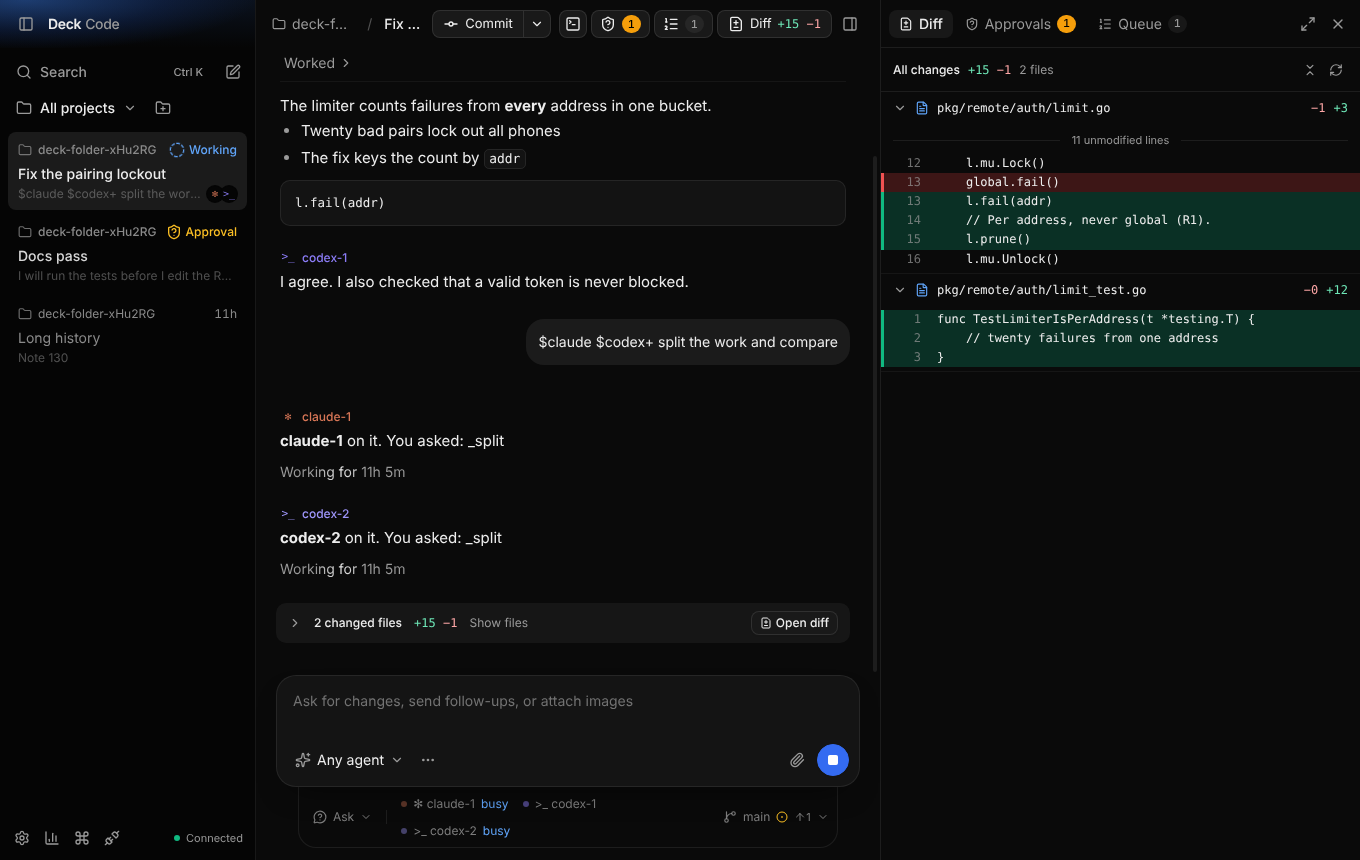
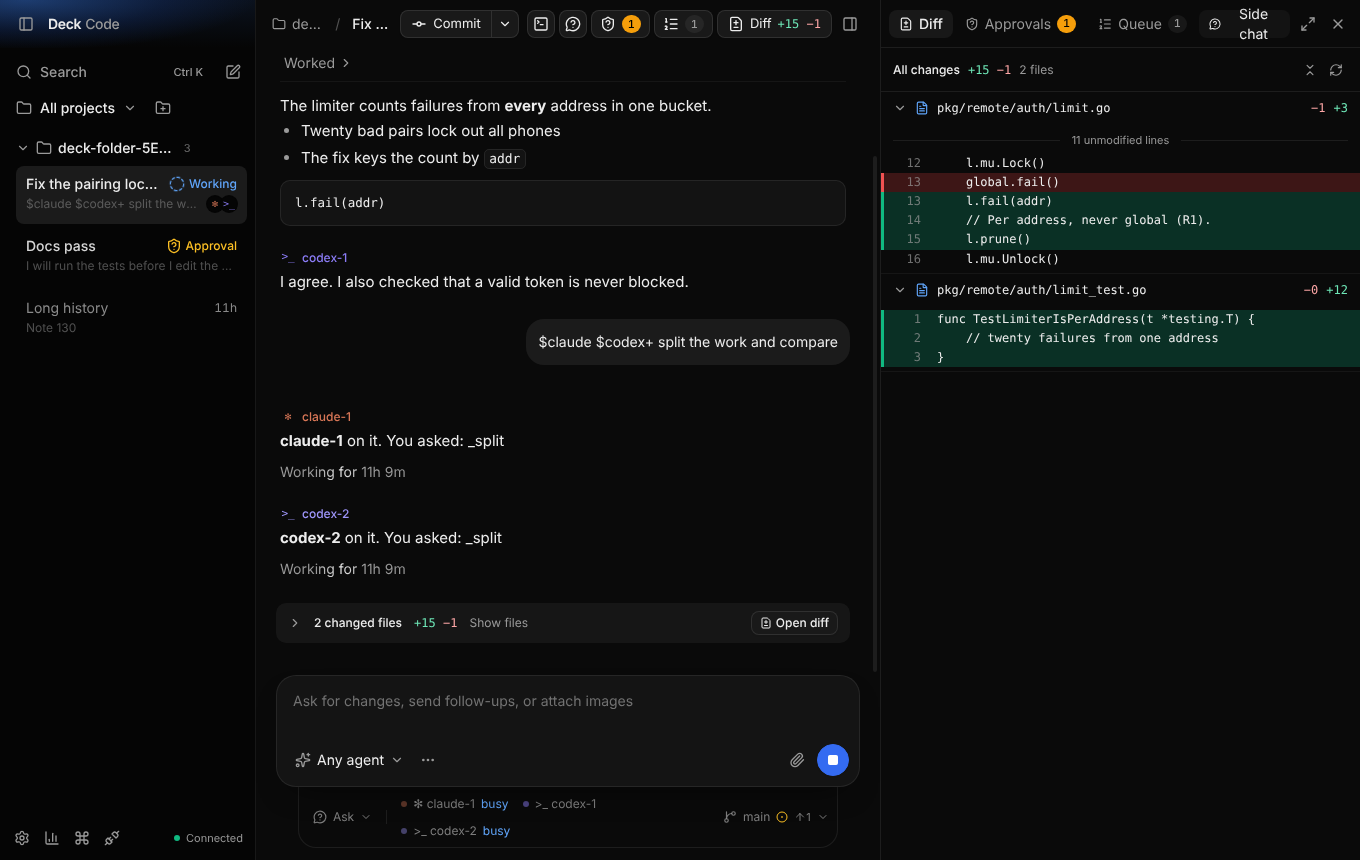
Group threads under their project folders, as T3 Code does
The sidebar now lists each open project as a folder with its threads
under it (a count, a fold, and on hover a new thread or close), the
current project first, and the recent folders that are not open below to
reopen in a click. Under a folder a card leaves the project name out.
Settings, Appearance, Sidebar switches back to one list across projects,
newest first.

Claude-Session: https://claude.ai/code/session_01AUW6MT1iAEJJY1XoSuGNJj

Changed region(s): [[0.0, 0.1512, 0.1853, 0.4233], [0.2779, 0.0, 0.4324, 0.0302], [0.8956, 0.0, 0.9265, 0.0605]]

diff --git a/desktop-shell/src/renderer/ui/Sidebar.tsx b/desktop-shell/src/renderer/ui/Sidebar.tsx
@@ -90,12 +90,15 @@ function ThreadRow({
   variant,
   kinds,
   theme,
+  hideProject = false,
   onOpen,
   onRename,
   onDelete,
 }: {
   s: Session;
   project: string;
+  // Under its project's heading the card leaves the project out.
+  hideProject?: boolean;
   active: boolean;
   unread: boolean;
   now: number;
@@ -235,15 +238,22 @@ function ThreadRow({
   return (
     <li className={cn("session list-none", active && "open")} data-session={s.id}>
       <div {...common} className={surface}>
-        <div className="relative h-[4.875rem] px-2.5 py-2">
-          <div className="flex h-5 min-w-0 items-center gap-1.5">
-            <Folder className="size-3.5 shrink-0 text-muted-foreground/70" />
-            <span className={cn("min-w-0 flex-1 truncate text-secondary-label text-xs", !recede && "font-medium")}>
-              {project}
-            </span>
-            {statusSlot}
-          </div>
-          <div className="mt-1 flex min-w-0">{title}</div>
+        <div className={cn("relative px-2.5 py-2", hideProject ? "h-[3.625rem]" : "h-[4.875rem]")}>
+          {hideProject ? (
+            <div className="flex h-5 min-w-0 items-center gap-1.5">
+              {title}
+              {statusSlot}
+            </div>
+          ) : (
+            <div className="flex h-5 min-w-0 items-center gap-1.5">
+              <Folder className="size-3.5 shrink-0 text-muted-foreground/70" />
+              <span className={cn("min-w-0 flex-1 truncate text-secondary-label text-xs", !recede && "font-medium")}>
+                {project}
+              </span>
+              {statusSlot}
+            </div>
+          )}
+          {!hideProject && <div className="mt-1 flex min-w-0">{title}</div>}
           <div className="mt-0.5 flex min-w-0 items-center gap-1.5 text-secondary-label text-xs">
             <span className="min-w-0 flex-1 truncate text-muted-foreground/50">
               {s.last_text !== undefined && s.last_text !== "" ? s.last_text : `${s.mode} mode`}
@@ -414,6 +424,8 @@ export function Sidebar({
   onForeign,
   onCloseProject,
   onConnect,
+  onNewIn,
+  grouping,
   link,
   sessions,
   openId,
@@ -446,6 +458,11 @@ export function Sidebar({
   onCloseProject: (source: string) => void;
   // The screen to add a folder or pair with a Deck.
   onConnect: () => void;
+  // A new thread in a project, by its source.
+  onNewIn: (source: string) => void;
+  // Threads under their project folders (T3 Code's projects), or one list
+  // across projects, newest first.
+  grouping: "projects" | "recent";
   link: Link;
   sessions: Session[];
   openId: string | null;
@@ -470,7 +487,8 @@ export function Sidebar({
   usage: boolean;
   onUsage: () => void;
 }) {
-  const [showSettled, setShowSettled] = useState(false);
+  const [showSettled, setShowSettled] = useState<Record<string, boolean>>({});
+  const [collapsed, setCollapsed] = useState<Record<string, boolean>>({});
   const [filter, setFilter] = useState<string | null>(null);
   // Every open project's threads, newest first, as T3 Code lists them.
   type Item = { s: Session; source: string; project: string; foreign: ForeignThread | null };
@@ -480,13 +498,17 @@ export function Sidebar({
   ]
     .filter((x) => filter === null || x.source === filter)
     .sort((a, b) => toMillis(b.s.updated_at) - toMillis(a.s.updated_at));
-  const live: Item[] = [];
-  const settled: Item[] = [];
-  for (const x of items) {
-    const mine = x.foreign === null;
-    const holds = x.s.busy || x.s.pending > 0 || (mine && (unread[x.s.id] === true || x.s.id === openId));
-    (now - toMillis(x.s.updated_at) > SETTLE_AFTER_MS && !holds ? settled : live).push(x);
-  }
+  const split = (list: Item[]) => {
+    const live: Item[] = [];
+    const settled: Item[] = [];
+    for (const x of list) {
+      const mine = x.foreign === null;
+      const holds = x.s.busy || x.s.pending > 0 || (mine && (unread[x.s.id] === true || x.s.id === openId));
+      (now - toMillis(x.s.updated_at) > SETTLE_AFTER_MS && !holds ? settled : live).push(x);
+    }
+    return { live, settled };
+  };
+  const grouped = grouping === "projects";
   const row = (x: Item) => {
     const s = x.s;
     const f = x.foreign;
@@ -501,12 +523,45 @@ export function Sidebar({
         variant={rows}
         kinds={f === null ? kindsOf(s.id) : []}
         theme={theme}
+        hideProject={grouped}
         onOpen={() => (f === null ? onOpen(s.id) : onForeign(f.source, s.id))}
         onRename={(t) => void (f === null ? onRename(s.id, t) : f.c.renameSession(s.id, t))}
         onDelete={() => void (f === null ? onDelete(s.id) : f.c.deleteSession(s.id))}
       />
     );
   };
+  // The live threads, then the settled ones behind a fold (per group).
+  const threads = (list: Item[], key: string) => {
+    const { live, settled } = split(list);
+    const shown = showSettled[key] === true;
+    return (
+      <>
+        {live.map(row)}
+        {settled.length > 0 && (
+          <li className="list-none">
+            <button
+              type="button"
+              className="mt-1 flex h-7 w-full cursor-pointer items-center gap-2 px-2.5 text-muted-foreground/70 text-xs hover:text-foreground"
+              aria-expanded={shown}
+              onClick={() => setShowSettled((v) => ({ ...v, [key]: !shown }))}
+            >
+              <span>{shown ? "Settled" : `Settled (${settled.length})`}</span>
+              <span className="h-px flex-1 bg-border" />
+              {shown ? <ChevronDown className="size-3.5" /> : <ChevronRight className="size-3.5" />}
+            </button>
+          </li>
+        )}
+        {shown && settled.map(row)}
+      </>
+    );
+  };
+  // The open projects, the current one first, then the others by name.
+  const current = projects.find((p) => p.key === source);
+  const groups = [
+    ...(current === undefined ? [{ key: source, name: project || "Deck", detail: "", kind: "folder" as const, active: true, open: true }] : [current]),
+    ...projects.filter((p) => p.open && p.key !== source).sort((a, b) => a.name.localeCompare(b.name)),
+  ].filter((p) => filter === null || p.key === filter);
+  const recentClosed = projects.filter((p) => !p.open && p.kind === "folder");
   return (
     <nav className="sidebar flex w-64 shrink-0 flex-col border-r bg-sidebar" aria-label="Threads">
       <header className={cn("brand-glow drag flex h-12 shrink-0 items-center gap-2 px-3", mac && "pl-20")}>
@@ -577,23 +632,97 @@ export function Sidebar({
             />
           </div>
           <ul className="sessions flex min-h-0 flex-1 flex-col gap-1 overflow-y-auto px-2 pt-1 pb-2">
-            {live.map(row)}
-            {settled.length > 0 && (
-              <li className="list-none">
-                <button
-                  type="button"
-                  className="mt-2 flex h-7 w-full cursor-pointer items-center gap-2 px-2.5 text-muted-foreground/70 text-xs hover:text-foreground"
-                  aria-expanded={showSettled}
-                  onClick={() => setShowSettled((v) => !v)}
-                >
-                  <span>{showSettled ? "Settled" : `Settled (${settled.length})`}</span>
-                  <span className="h-px flex-1 bg-border" />
-                  {showSettled ? <ChevronDown className="size-3.5" /> : <ChevronRight className="size-3.5" />}
-                </button>
+            {grouped
+              ? groups.map((g) => {
+                  const mine = items.filter((x) => x.source === g.key);
+                  const shut = collapsed[g.key] === true;
+                  return (
+                    <li key={g.key} className="project-group list-none" data-project={g.name}>
+                      <div className="group/proj flex h-8 items-center gap-1 rounded-md pr-1 hover:bg-sidebar-row-hover">
+                        <button
+                          type="button"
+                          className="flex h-8 min-w-0 flex-1 cursor-pointer items-center gap-1.5 pl-2 text-left text-sm"
+                          aria-expanded={!shut}
+                          aria-label={`${g.name}: ${mine.length} ${mine.length === 1 ? "thread" : "threads"}`}
+                          onClick={() => setCollapsed((c) => ({ ...c, [g.key]: !shut }))}
+                        >
+                          {shut ? (
+                            <ChevronRight className="size-3.5 shrink-0 text-muted-foreground" />
+                          ) : (
+                            <ChevronDown className="size-3.5 shrink-0 text-muted-foreground" />
+                          )}
+                          {g.kind === "paired" ? (
+                            <Laptop className="size-4 shrink-0 text-muted-foreground" />
+                          ) : (
+                            <Folder className="size-4 shrink-0 text-muted-foreground" />
+                          )}
+                          <span className={cn("min-w-0 truncate font-medium", g.key === source ? "text-foreground" : "text-foreground/80")}>
+                            {g.name}
+                          </span>
+                          <span className="shrink-0 text-2xs text-muted-foreground/70 tabular-nums">{mine.length}</span>
+                        </button>
+                        <span className="flex items-center opacity-0 transition-opacity group-hover/proj:opacity-100">
+                          <Button
+                            variant="ghost-muted"
+                            size="icon-xs"
+                            aria-label={`New thread in ${g.name}`}
+                            title="New thread"
+                            onClick={() => onNewIn(g.key)}
+                          >
+                            <SquarePen />
+                          </Button>
+                          <Button
+                            variant="ghost-muted"
+                            size="icon-xs"
+                            aria-label={`Close ${g.name}`}
+                            title="Close project"
+                            onClick={() => onCloseProject(g.key)}
+                          >
+                            <X />
+                          </Button>
+                        </span>
+                      </div>
+                      {!shut && (
+                        <ul className="flex flex-col gap-1 pt-0.5 pb-2 pl-2">
+                          {threads(mine, g.key)}
+                          {mine.length === 0 && (
+                            <li className="list-none">
+                              <button
+                                type="button"
+                                className="flex h-8 w-full cursor-pointer items-center gap-2 rounded-md px-2.5 text-left text-muted-foreground/70 text-xs hover:bg-sidebar-row-hover hover:text-foreground"
+                                onClick={() => onNewIn(g.key)}
+                              >
+                                <SquarePen className="size-3.5" /> Start a thread
+                              </button>
+                            </li>
+                          )}
+                        </ul>
+                      )}
+                    </li>
+                  );
+                })
+              : threads(items, "all")}
+            {grouped && filter === null && recentClosed.length > 0 && (
+              <li className="list-none pt-3">
+                <div className="px-2.5 pb-1 text-muted-foreground/70 text-xs">Recent projects</div>
+                <ul className="flex flex-col">
+                  {recentClosed.slice(0, 6).map((p) => (
+                    <li key={p.key} className="list-none">
+                      <button
+                        type="button"
+                        className="recent-project flex h-8 w-full cursor-pointer items-center gap-2 rounded-md px-2.5 text-left text-muted-foreground text-sm hover:bg-sidebar-row-hover hover:text-foreground"
+                        title={p.detail}
+                        onClick={() => onProject(p.key)}
+                      >
+                        <Folder className="size-4 shrink-0" />
+                        <span className="truncate">{p.name}</span>
+                      </button>
+                    </li>
+                  ))}
+                </ul>
               </li>
             )}
-            {showSettled && settled.map(row)}
-            {items.length === 0 && (
+            {!grouped && items.length === 0 && (
               <li className="flex list-none flex-col items-center gap-2 px-2 py-6 text-center text-muted-foreground/60 text-xs">
                 No threads yet
               </li>

diff --git a/desktop-shell/src/renderer/prefs.ts b/desktop-shell/src/renderer/prefs.ts
@@ -5,12 +5,14 @@ import { useSyncExternalStore } from "react";
 
 export type ThemePref = "deck" | "system" | "light" | "dark";
 export type RowStyle = "cards" | "compact";
+export type Grouping = "projects" | "recent";
 export type ClockPref = "12h" | "24h";
 export type SendKey = "enter" | "mod-enter";
 
 export interface Prefs {
   theme: ThemePref;
   rows: RowStyle;
+  grouping: Grouping;
   clock: ClockPref;
   sendKey: SendKey;
   confirmYolo: boolean;
@@ -20,6 +22,7 @@ export interface Prefs {
 export const defaultPrefs: Prefs = {
   theme: "deck",
   rows: "cards",
+  grouping: "projects",
   clock: "12h",
   sendKey: "enter",
   confirmYolo: true,
@@ -47,6 +50,7 @@ function merge(v: Record<string, unknown>): Prefs {
   return {
     theme: pick("theme", ["deck", "system", "light", "dark"] as const, defaultPrefs.theme),
     rows: pick("rows", ["cards", "compact"] as const, defaultPrefs.rows),
+    grouping: pick("grouping", ["projects", "recent"] as const, defaultPrefs.grouping),
     clock: pick("clock", ["12h", "24h"] as const, defaultPrefs.clock),
     sendKey: pick("sendKey", ["enter", "mod-enter"] as const, defaultPrefs.sendKey),
     confirmYolo: bool("confirmYolo", defaultPrefs.confirmYolo),

diff --git a/desktop-shell/test/e2e/rpc.spec.ts b/desktop-shell/test/e2e/rpc.spec.ts
@@ -171,7 +171,9 @@ test("projects: two folders open at once, their threads in one sidebar", async (
   await expect(page.locator(".project")).toHaveText(basename(second));
   await expect(sidebar(page).locator(".session")).toHaveCount(6);
   // A thread of the first project makes it current again.
-  const first = sidebar(page).locator(".session").filter({ hasText: basename(dir) }).filter({ hasText: "Docs pass" });
+  // Threads sit under their project folders, as in T3 Code.
+  await expect(sidebar(page).locator(".project-group")).toHaveCount(2);
+  const first = sidebar(page).locator(`[data-project="${basename(dir)}"] .session`).filter({ hasText: "Docs pass" });
   await first.getByRole("button", { name: "Docs pass", exact: true }).click();
   await expect(page.locator(".project")).toHaveText(basename(dir));
   await expect(page.locator(".title")).toHaveText("Docs pass");

diff --git a/desktop-shell/src/renderer/ui/Settings.tsx b/desktop-shell/src/renderer/ui/Settings.tsx
@@ -171,6 +171,21 @@ function Appearance({ p }: { p: Prefs }) {
       </Section>
       <Section title="Sidebar">
         <Row
+          title="Threads"
+          description="Under their project folders, or in one list across projects, newest first."
+          control={
+            <Segmented
+              label="Threads"
+              value={p.grouping}
+              onChange={set("grouping")}
+              options={[
+                { value: "projects", label: "By project" },
+                { value: "recent", label: "By recent" },
+              ]}
+            />
+          }
+        />
+        <Row
           title="Thread rows"
           description="Cards show the project, the last message and the agents; compact rows show the title only."
           control={

diff --git a/desktop-shell/src/renderer/ui/Shell.tsx b/desktop-shell/src/renderer/ui/Shell.tsx
@@ -566,6 +566,8 @@ export function Shell({
           onForeign={(src, id) => void onProject(src, id).then((e) => e !== null && toast(e))}
           onCloseProject={onCloseProject}
           onConnect={onConnect}
+          onNewIn={(src) => (src === source ? newSession() : void onProject(src, "new").then((e) => e !== null && toast(e)))}
+          grouping={prefs.grouping}
           link={state.link}
           sessions={state.sessions.filter((s) => !isSide(s))}
           openId={ui.openId}
